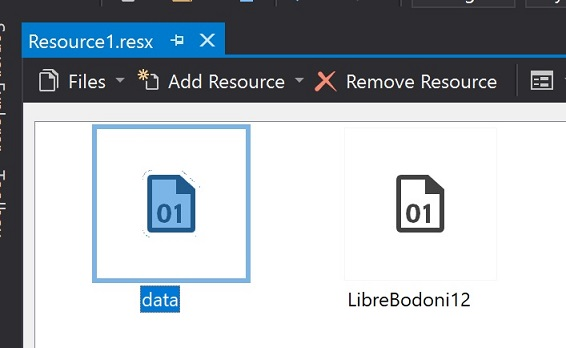
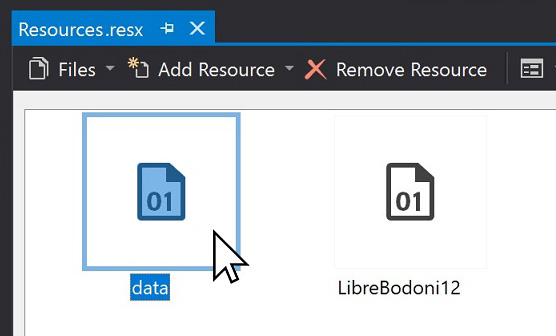
Fixed Resource page and added image step

diff --git a/software/tinyclr/tutorials/resources.md b/software/tinyclr/tutorials/resources.md
@@ -2,13 +2,15 @@
 ---
 Resource files can be used to store strings, images, audio files, and other binary or text files that will be used by your application.
 
-Right-click on your project and `Add->New Item...`. From here select `Resource File`.
+Right-click on your project and `Add-> New Item...` Select `TinyCLR` and click on `Resources File`. Name the file `Resources` to match the code samples in Docs.
+
+![Resources](images/add-resources.jpg)
 
 You can now drag resources right into the file.
 
 ![Resources](images/resources.jpg)
 
-In the background, a file is generated to reflect the added resources. Using the resource will look similar to `var resourceData = Resource.GetBytes(Resource.BinaryResources.data);`
+In the background, a file is generated to reflect the added resources. Using the resource will look similar to `var resourceData = Resources.GetBytes(Resources.BinaryResources.data);`
 
 
 > [!Tip]
